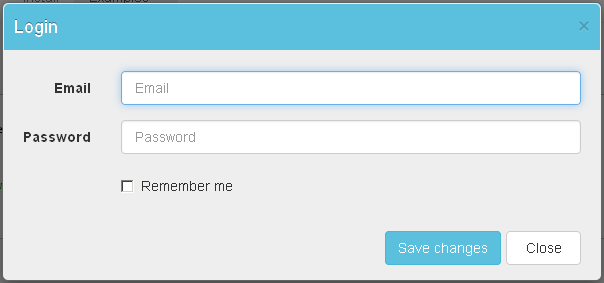
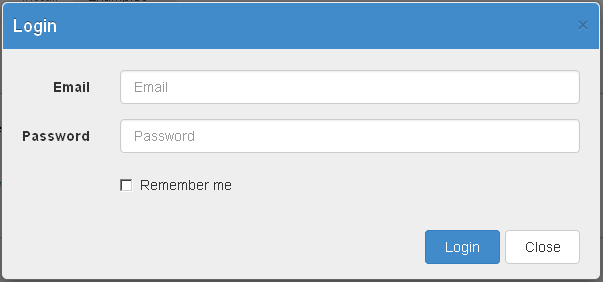
Update README

diff --git a/README.rst b/README.rst
@@ -93,14 +93,14 @@ Result:
 
     <script type="text/javascript">
         FormBox('<form>...</form>', {       //If content is null then load content from url parameter
-            type: DIALOG_INFO,              //Default DIALOG_PRIMARY
+            type: DIALOG_IMPORTANT,         //Default DIALOG_PRIMARY
             title: 'Login',                 //Default 'Form'
             url: null,                      //Default null
             buttons: {                      //Defaults 'Close' and 'Save changes' buttons
-                'Save': function(sender, $modal){
+                'Login': function(sender, $modal){
                     do_something();
                 },
-                'Cancel': null              //Close window
+                'Close': null              //Close window
             },
             onSave: function(content, $modal){ //Only when the 'buttons' option is empty
                 do_something();
